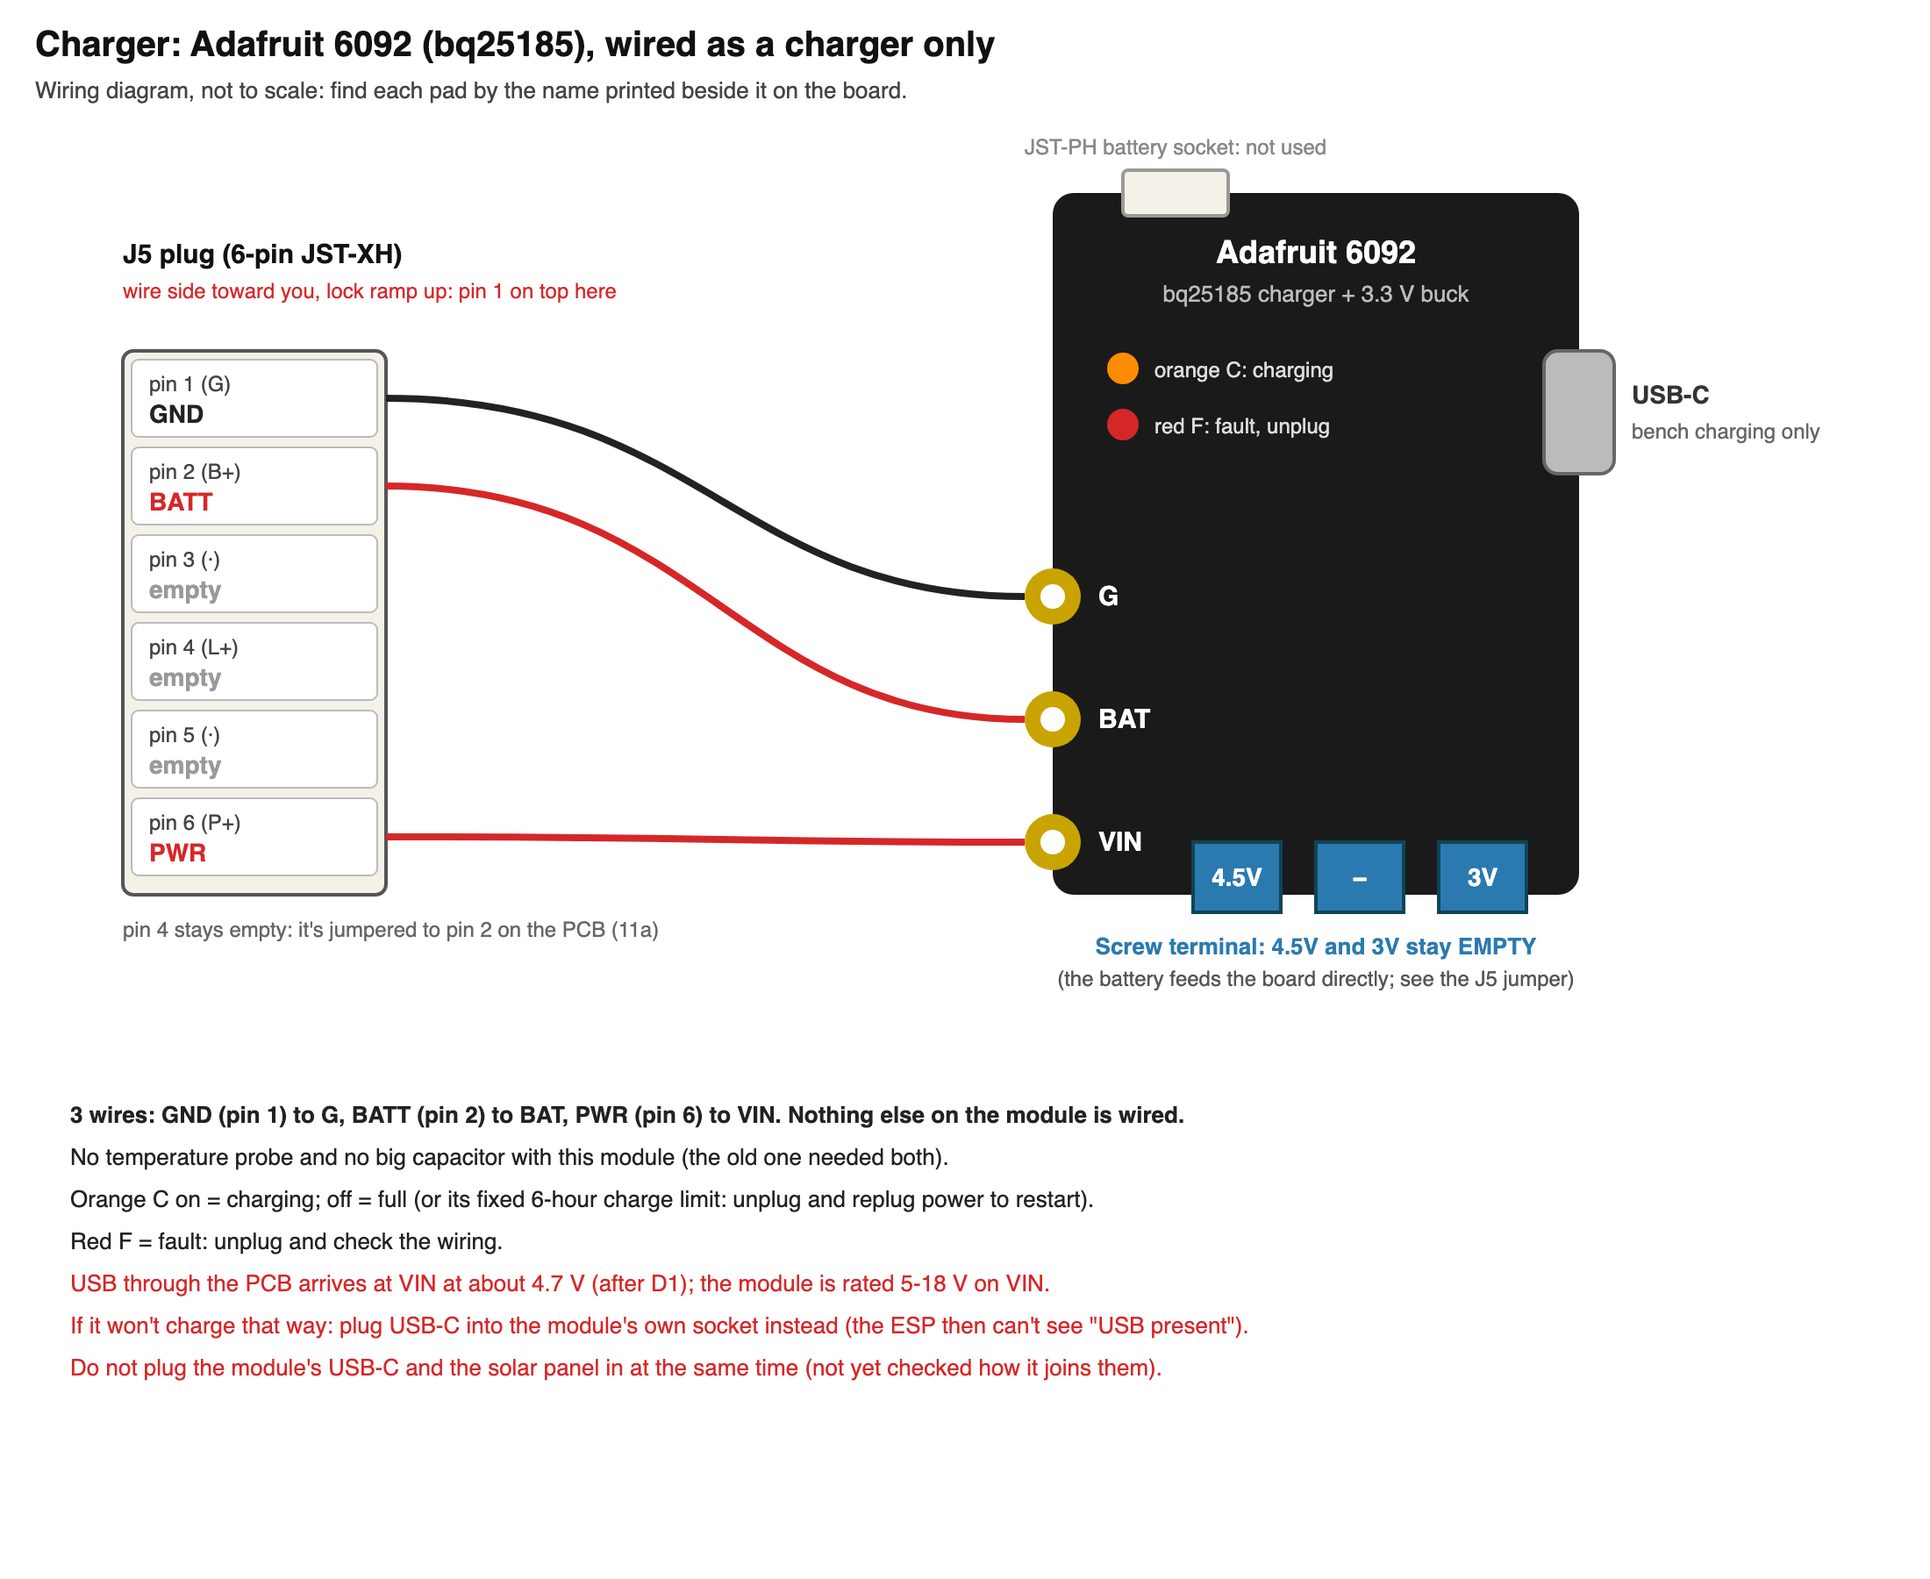
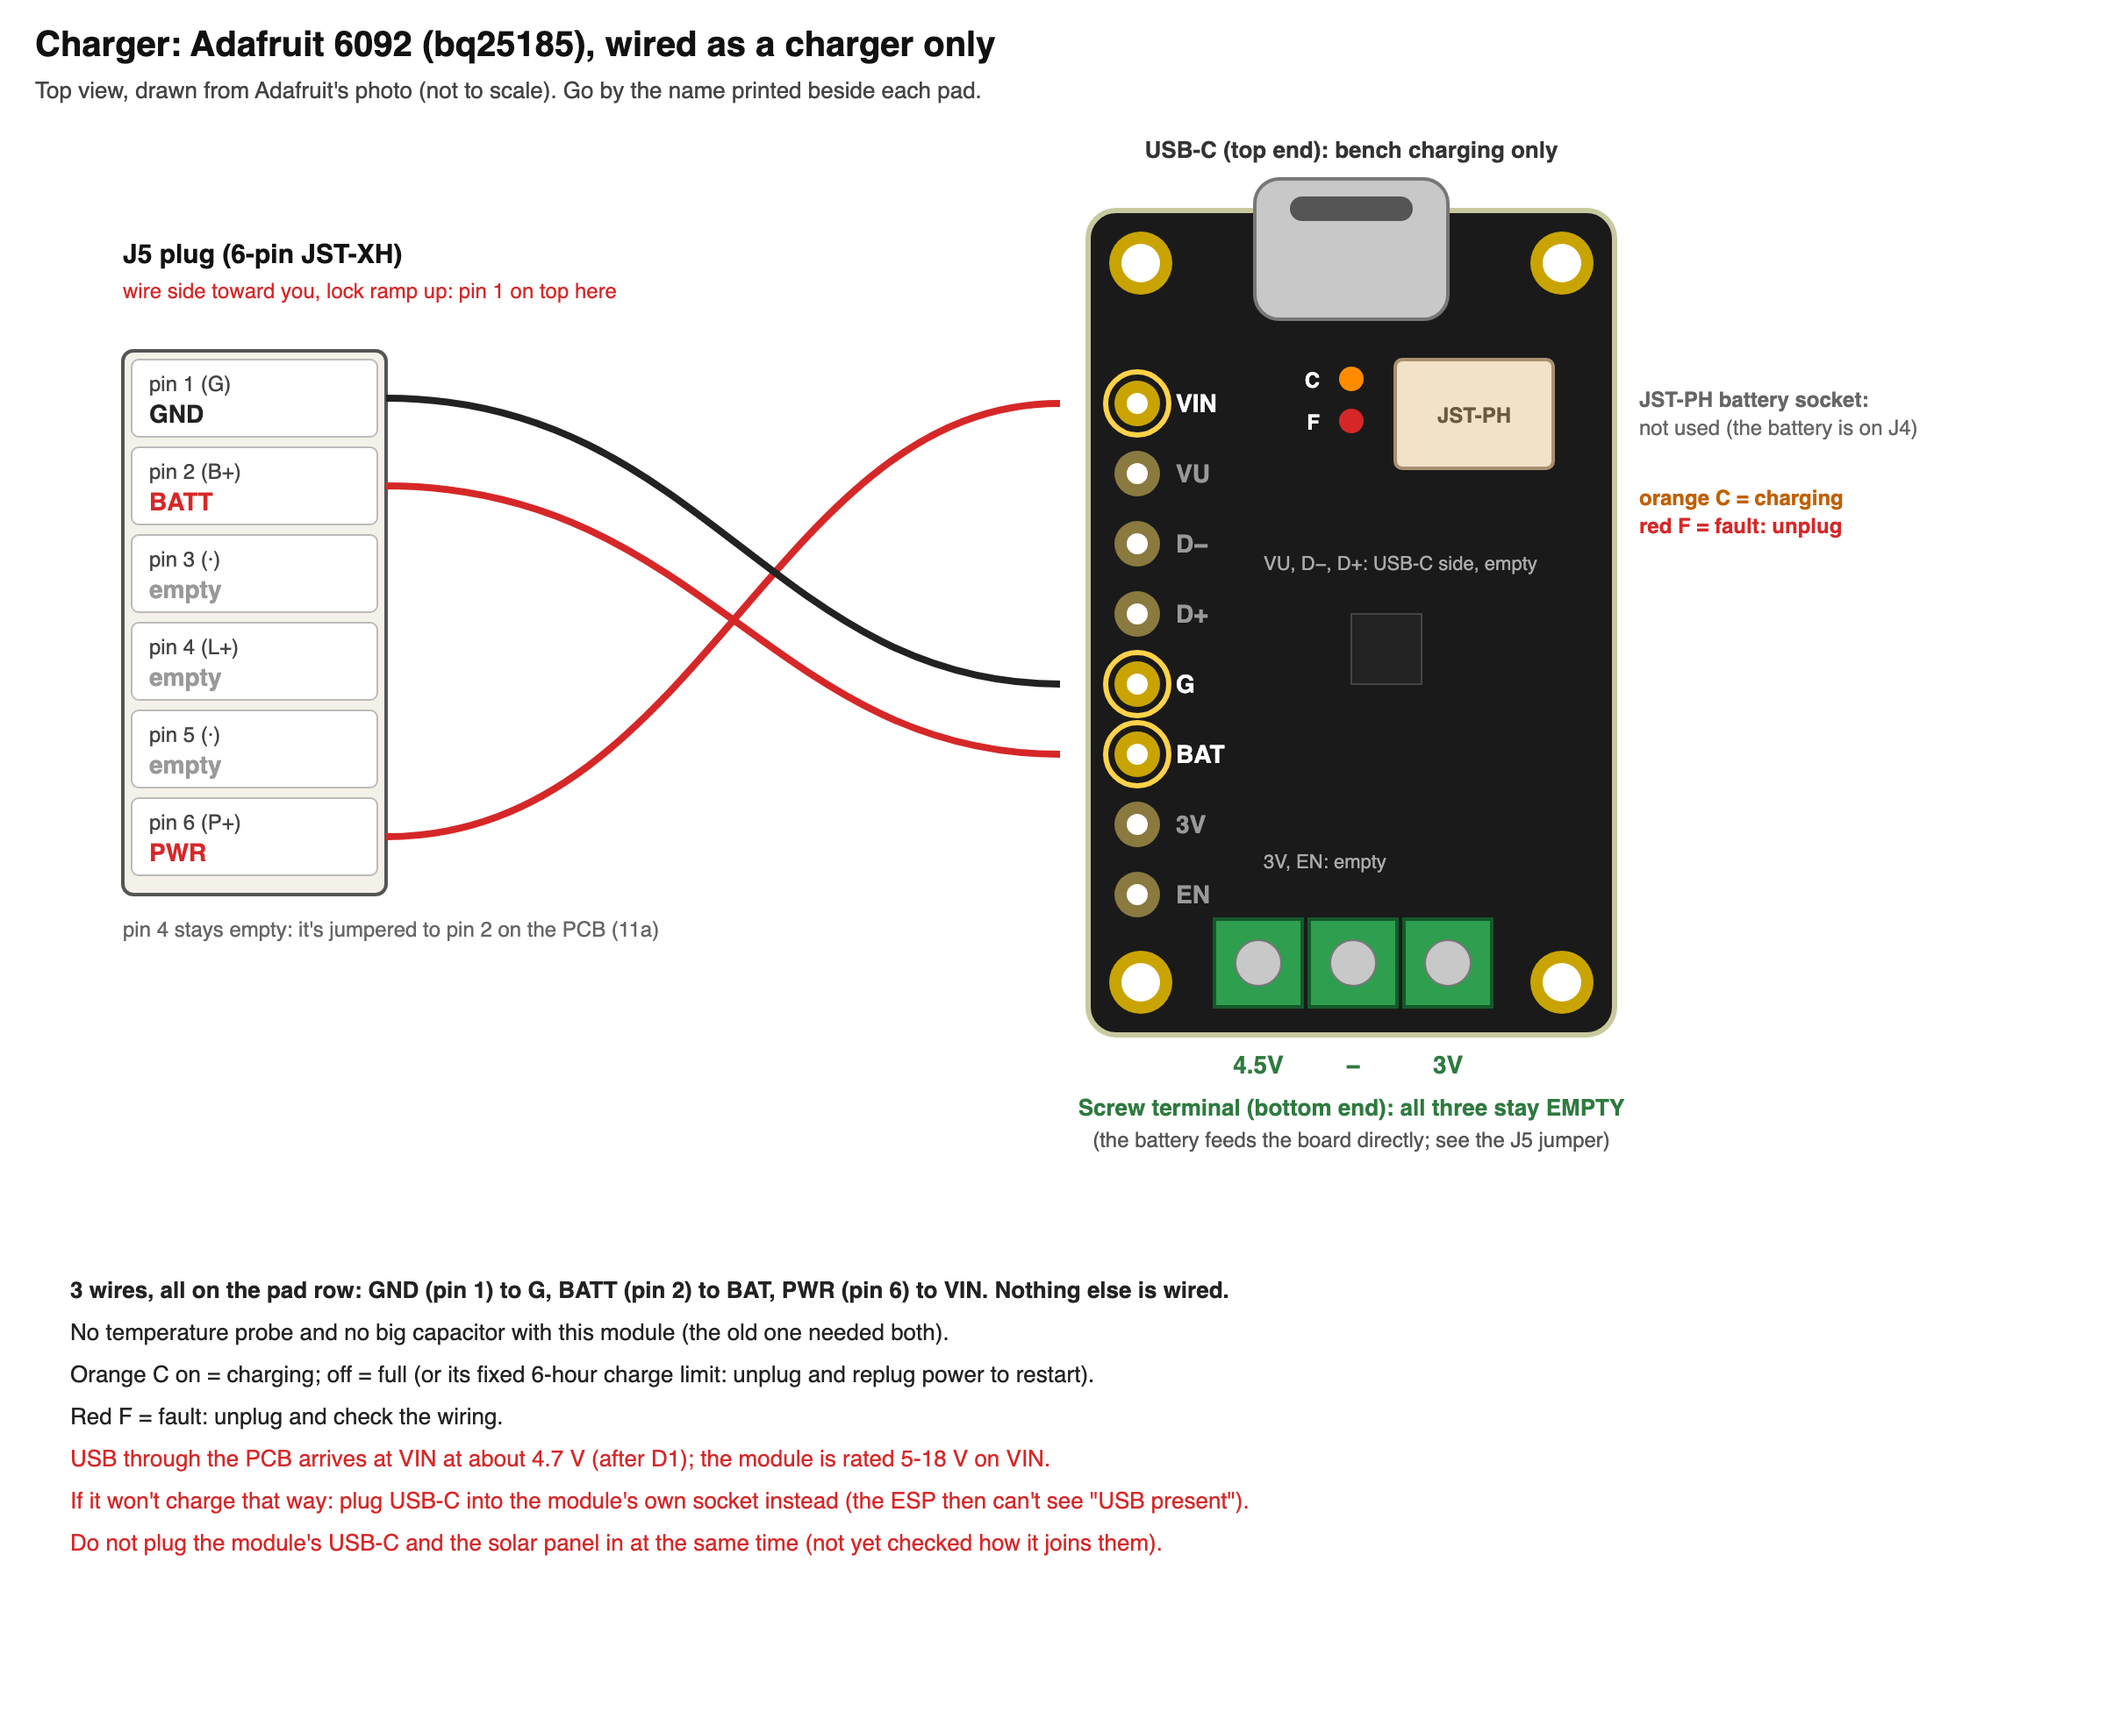
PCB build guide: 6092 picture matches the real board layout, all 8 pads labeled

diff --git a/tools/pcb_guide.py b/tools/pcb_guide.py
@@ -326,37 +326,54 @@ def charger_picture():
     """The Adafruit 6092 (bq25185) charger, used as a charger ONLY, and its 3-wire J5 harness. Drawn as a wiring diagram:
     the pad names are the ones printed on the board (Adafruit's guide); positions on the real board differ, so go by the
     printed labels."""
-    o = ['<svg xmlns="http://www.w3.org/2000/svg" width="1100" height="900" font-family="Helvetica,Arial">',
+    o = ['<svg xmlns="http://www.w3.org/2000/svg" width="1200" height="980" font-family="Helvetica,Arial">',
          '<rect width="100%" height="100%" fill="#fff"/>',
          text(20, 32, 'Charger: Adafruit 6092 (bq25185), wired as a charger only', 20, '#111', 'bold', 'start', halo=False),
-         text(20, 56, 'Wiring diagram, not to scale: find each pad by the name printed beside it on the board.', 13, '#444', anchor='start', halo=False)]
-    # the module
-    mx0, my0, mw, mh = 600, 110, 300, 400
-    o.append('<rect x="%d" y="%d" width="%d" height="%d" rx="12" fill="#1a1a1a"/>' % (mx0, my0, mw, mh))
-    o.append(text(mx0 + mw / 2, my0 + 40, 'Adafruit 6092', 18, '#fff', 'bold', halo=False))
-    o.append(text(mx0 + mw / 2, my0 + 62, 'bq25185 charger + 3.3 V buck', 13, '#bbb', halo=False))
-    # USB-C on the right edge
-    o.append('<rect x="%d" y="%d" width="40" height="70" rx="8" fill="#bbb" stroke="#666" stroke-width="2"/>' % (mx0 + mw - 20, my0 + 90))
-    o.append(text(mx0 + mw + 30, my0 + 120, 'USB-C', 14, '#333', 'bold', 'start', halo=False))
-    o.append(text(mx0 + mw + 30, my0 + 140, 'bench charging only', 12, '#666', anchor='start', halo=False))
-    # JST PH battery socket at the top (not used)
-    o.append('<rect x="%d" y="%d" width="60" height="26" rx="3" fill="#f4f1e8" stroke="#999" stroke-width="2"/>' % (mx0 + 40, my0 - 13))
-    o.append(text(mx0 + 70, my0 - 22, 'JST-PH battery socket: not used', 12, '#888', halo=False))
-    # LEDs
-    for k_, (lab, col, what) in enumerate((('C', '#ff8c00', 'orange C: charging'), ('F', '#d62728', 'red F: fault, unplug'))):
-        o.append('<circle cx="%d" cy="%d" r="9" fill="%s"/>' % (mx0 + 40, my0 + 100 + 32 * k_, col))
-        o.append(text(mx0 + 58, my0 + 105 + 32 * k_, what, 12, '#ddd', anchor='start', halo=False))
-    # pads used (left edge) and pads left empty (bottom: the terminal block)
-    pads = [('G', '#222', 230, 'pin 1  GND'), ('BAT', '#d62728', 300, 'pin 2  BATT'), ('VIN', '#d62728', 370, 'pin 6  PWR')]
-    for name, col, y, _ in pads:
-        o.append('<circle cx="%d" cy="%d" r="16" fill="#c9a400"/><circle cx="%d" cy="%d" r="7" fill="#fff"/>' % (mx0, my0 + y, mx0, my0 + y))
-        o.append(text(mx0 + 26, my0 + y + 5, name, 15, '#fff', 'bold', 'start', halo=False))
+         text(20, 56, 'Top view, drawn from Adafruit\'s photo (not to scale). Go by the name printed beside each pad.', 13, '#444', anchor='start', halo=False)]
+    # the module, top view, drawn from Adafruit's photo: USB-C at the top end, the screw terminal at the bottom end, the
+    # JST-PH socket just below the USB-C, and the row of 8 pads down the left edge (VIN at the USB end, EN at the terminal end)
+    mx0, my0, mw, mh = 620, 120, 300, 470
+    o.append('<rect x="%d" y="%d" width="%d" height="%d" rx="16" fill="#1a1a1a" stroke="#c9c9a0" stroke-width="3"/>' % (mx0, my0, mw, mh))
+    for hx_, hy_ in ((mx0 + 30, my0 + 30), (mx0 + mw - 30, my0 + 30), (mx0 + 30, my0 + mh - 30), (mx0 + mw - 30, my0 + mh - 30)):
+        o.append('<circle cx="%d" cy="%d" r="18" fill="#c9a400"/><circle cx="%d" cy="%d" r="11" fill="#fff"/>' % (hx_, hy_, hx_, hy_))
+    # USB-C, sticking out of the top end
+    o.append('<rect x="%d" y="%d" width="110" height="80" rx="14" fill="#c8c8c8" stroke="#777" stroke-width="2"/>' % (mx0 + 95, my0 - 18))
+    o.append('<rect x="%d" y="%d" width="70" height="14" rx="7" fill="#555"/>' % (mx0 + 115, my0 - 8))
+    o.append(text(mx0 + mw / 2, my0 - 30, 'USB-C (top end): bench charging only', 13, '#333', 'bold', halo=False))
+    # JST-PH socket below the USB-C, toward the right
+    o.append('<rect x="%d" y="%d" width="90" height="62" rx="4" fill="#f1e2c8" stroke="#a89070" stroke-width="2"/>' % (mx0 + 175, my0 + 85))
+    o.append(text(mx0 + 220, my0 + 121, 'JST-PH', 12, '#6b5a40', 'bold', halo=False))
+    o.append(text(mx0 + mw + 14, my0 + 112, 'JST-PH battery socket:', 12, '#666', 'bold', 'start', halo=False))
+    o.append(text(mx0 + mw + 14, my0 + 128, 'not used (the battery is on J4)', 12, '#666', anchor='start', halo=False))
+    # LEDs C and F, left of the socket
+    for k_, (lab, col) in enumerate((('C', '#ff8c00'), ('F', '#d62728'))):
+        o.append('<circle cx="%d" cy="%d" r="7" fill="%s"/>' % (mx0 + 150, my0 + 96 + 24 * k_, col))
+        o.append(text(mx0 + 132, my0 + 101 + 24 * k_, lab, 12, '#fff', 'bold', 'end', halo=False))
+    o.append(text(mx0 + mw + 14, my0 + 168, 'orange C = charging', 12, '#c06000', 'bold', 'start', halo=False))
+    o.append(text(mx0 + mw + 14, my0 + 184, 'red F = fault: unplug', 12, '#d62728', 'bold', 'start', halo=False))
+    o.append('<rect x="%d" y="%d" width="40" height="40" fill="#222" stroke="#444"/>' % (mx0 + 150, my0 + 230))   # the chip
+    # the 8-pad row down the left edge, names printed beside each pad
+    used = {'VIN': ('#d62728', 'pin 6 PWR'), 'G': ('#222', 'pin 1 GND'), 'BAT': ('#d62728', 'pin 2 BATT')}
+    pads = []
+    for k_, name in enumerate(('VIN', 'VU', 'D−', 'D+', 'G', 'BAT', '3V', 'EN')):
+        y = 110 + 40 * k_
+        on = name in used
+        o.append('<circle cx="%d" cy="%d" r="13" fill="%s"/><circle cx="%d" cy="%d" r="6" fill="#fff"/>' % (
+            mx0 + 28, my0 + y, '#c9a400' if on else '#8a7a40', mx0 + 28, my0 + y))
+        o.append(text(mx0 + 50, my0 + y + 5, name, 14, '#fff' if on else '#999', 'bold', 'start', halo=False))
+        if on:
+            o.append('<circle cx="%d" cy="%d" r="18" fill="none" stroke="%s" stroke-width="3"/>' % (mx0 + 28, my0 + y, '#ffd24a'))
+            pads.append((name, used[name][0], y, used[name][1]))
+    o.append(text(mx0 + 100, my0 + 205, 'VU, D−, D+: USB-C side, empty', 11, '#aaa', anchor='start', halo=False))
+    o.append(text(mx0 + 100, my0 + 375, '3V, EN: empty', 11, '#aaa', anchor='start', halo=False))
+    # screw terminal at the bottom end: 4.5V, −, 3V (4.5V on the pad-row side)
     for k_, name in enumerate(('4.5V', '−', '3V')):
-        x_ = mx0 + 80 + 70 * k_
-        o.append('<rect x="%d" y="%d" width="50" height="40" fill="#2a7ab0" stroke="#145" stroke-width="2"/>' % (x_, my0 + mh - 30))
-        o.append(text(x_ + 25, my0 + mh - 5, name, 14, '#fff', 'bold', halo=False))
-    o.append(text(mx0 + mw / 2, my0 + mh + 34, 'Screw terminal: 4.5V and 3V stay EMPTY', 13, '#2a7ab0', 'bold', halo=False))
-    o.append(text(mx0 + mw / 2, my0 + mh + 52, '(the battery feeds the board directly; see the J5 jumper)', 12, '#555', halo=False))
+        x_ = mx0 + 72 + 54 * k_
+        o.append('<rect x="%d" y="%d" width="50" height="50" fill="#2e9e4f" stroke="#145a2a" stroke-width="2"/>' % (x_, my0 + mh - 66))
+        o.append('<circle cx="%d" cy="%d" r="13" fill="#c8c8c8" stroke="#777"/>' % (x_ + 25, my0 + mh - 41))
+        o.append(text(x_ + 25, my0 + mh + 22, name, 14, '#2e7a3f', 'bold', halo=False))
+    o.append(text(mx0 + mw / 2, my0 + mh + 46, 'Screw terminal (bottom end): all three stay EMPTY', 13, '#2e7a3f', 'bold', halo=False))
+    o.append(text(mx0 + mw / 2, my0 + mh + 64, '(the battery feeds the board directly; see the J5 jumper)', 12, '#555', halo=False))
     # the J5 housing on the left, wires to the pads
     hx, hy = 70, 200
     cav = [('1', 'G', 'GND', '#222'), ('2', 'B+', 'BATT', '#d62728'), ('3', '·', 'empty', '#999'),
@@ -371,14 +388,14 @@ def charger_picture():
         o.append(text(hx + 15, y_ + 18, 'pin %s (%s)' % (pin, silk), 12, '#444', anchor='start', halo=False))
         o.append(text(hx + 15, y_ + 36, what, 14, c, 'bold', 'start', halo=False))
         wire_y[pin] = y_ + 22
-    for (name, col, y, _), pin in zip(pads, ('1', '2', '6')):
-        y0 = wire_y[pin]
+    for name, col, y, lab in pads:
+        y0 = wire_y[{'G': '1', 'BAT': '2', 'VIN': '6'}[name]]
         o.append('<path d="M%d %d C %d %d, %d %d, %d %d" fill="none" stroke="%s" stroke-width="4"/>' % (
             hx + 150, y0, hx + 330, y0, mx0 - 180, my0 + y, mx0 - 16, my0 + y, col))
     o.append(text(hx, hy + 6 * 50 + 34, 'pin 4 stays empty: it\'s jumpered to pin 2 on the PCB (11a)', 12, '#666', anchor='start', halo=False))
-    ty0 = 640
+    ty0 = 740
     for k_, t in enumerate([
-            '3 wires: GND (pin 1) to G, BATT (pin 2) to BAT, PWR (pin 6) to VIN. Nothing else on the module is wired.',
+            '3 wires, all on the pad row: GND (pin 1) to G, BATT (pin 2) to BAT, PWR (pin 6) to VIN. Nothing else is wired.',
             'No temperature probe and no big capacitor with this module (the old one needed both).',
             'Orange C on = charging; off = full (or its fixed 6-hour charge limit: unplug and replug power to restart).',
             'Red F = fault: unplug and check the wiring.',
